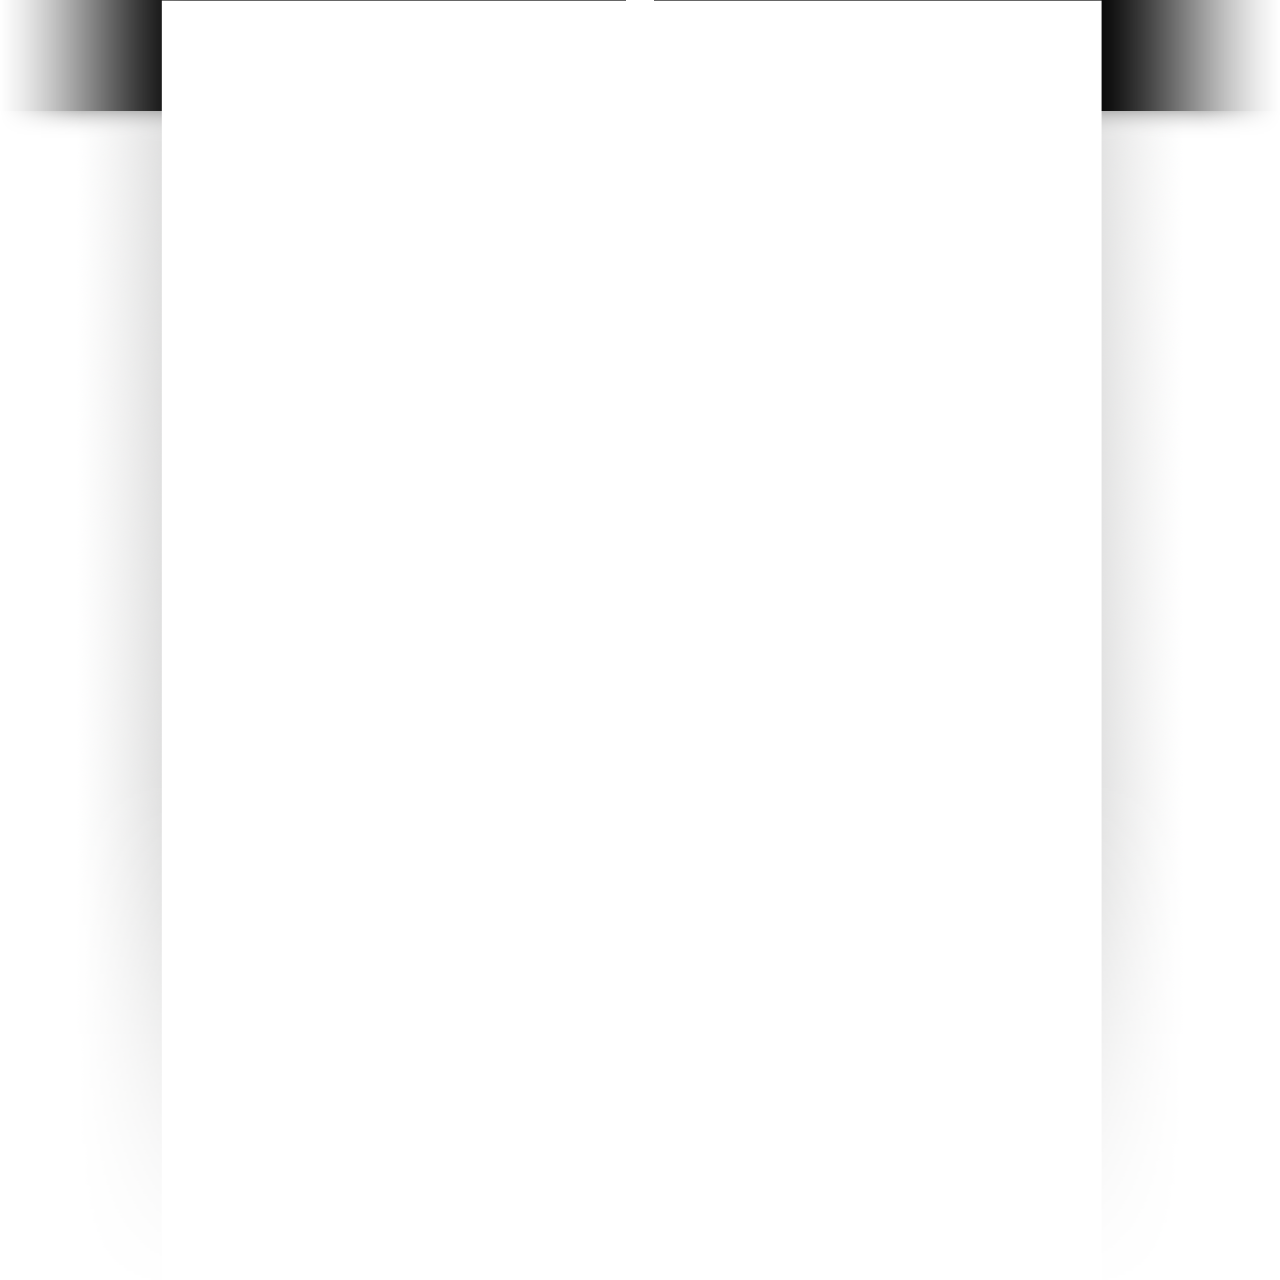
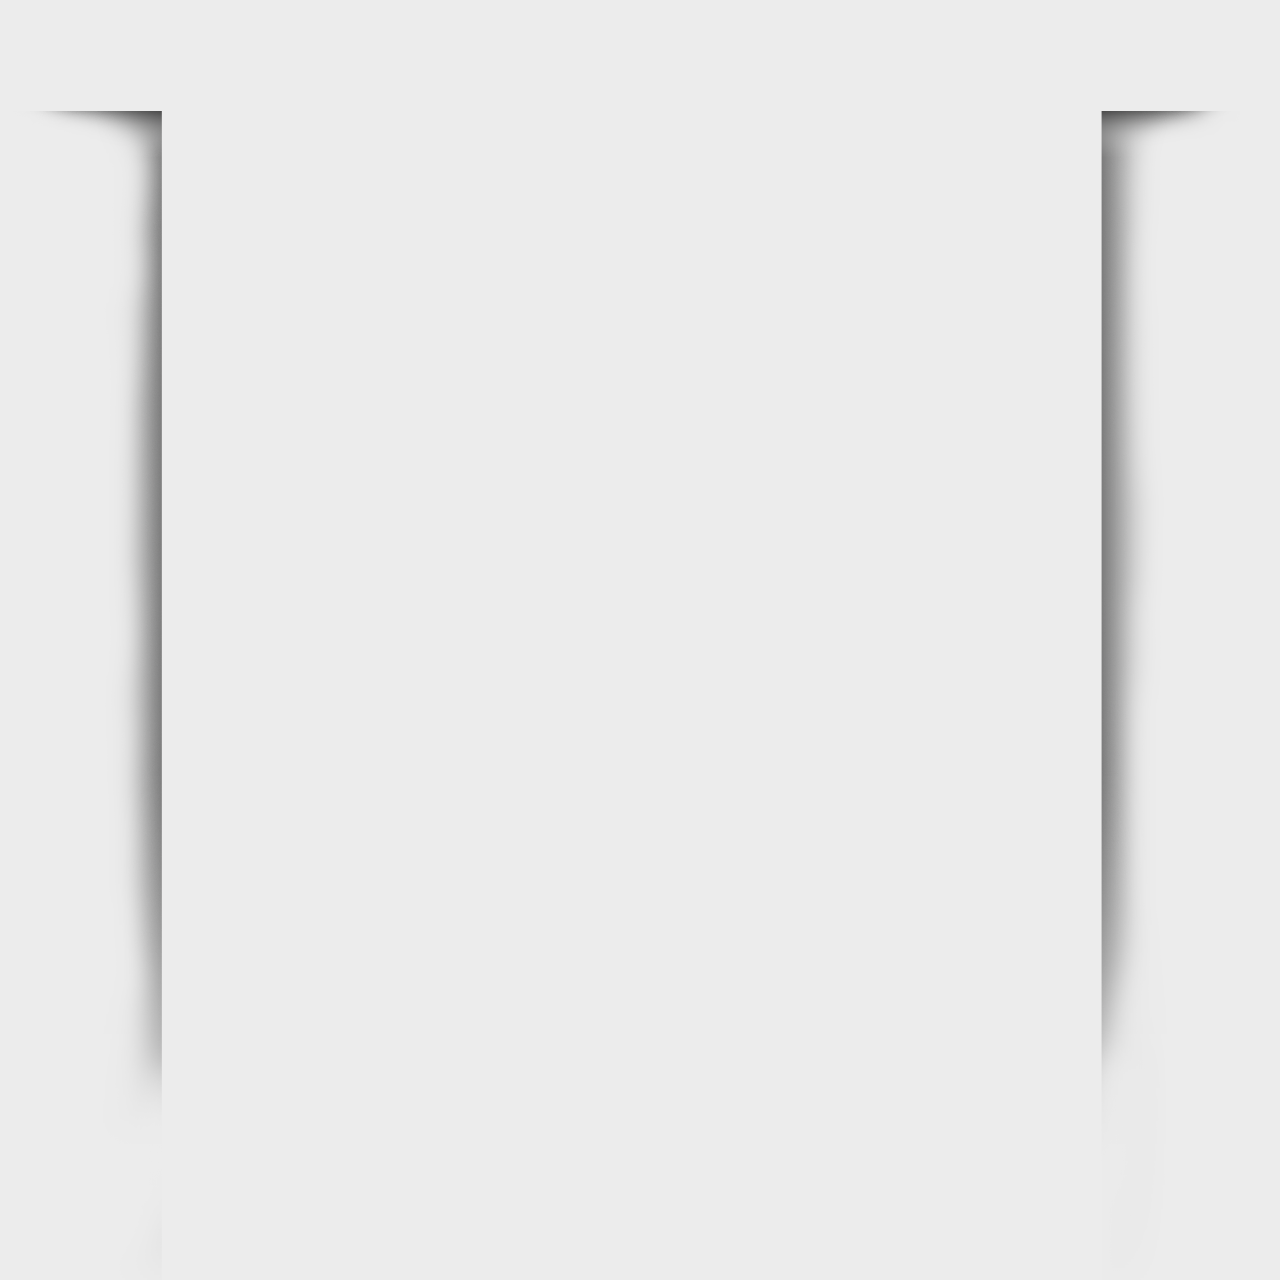
more bgs

Changed region(s): [[0.8438, 0.0, 0.9688, 0.8438], [0.0312, 0.0, 0.125, 0.8438]]

diff --git a/public/stylesheets/application.css b/public/stylesheets/application.css
@@ -1,6 +1,6 @@
 html, body {
   position: relative;
-  background: #fff url('../images/body_bg1.png') 50% 0 no-repeat;
+  background: #ECECEC url('../images/body_bg1.png') 50% 0 no-repeat;
   font-family: Arial, "Lucida Grande", Verdana, sans-serif;
   color: #000;
   font-size: 85%;
